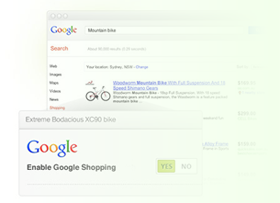
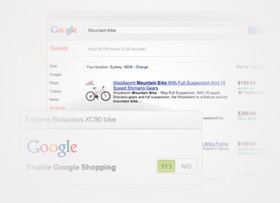
merge
added in second page and changed background for 1st page

diff --git a/index.html b/index.html
@@ -25,6 +25,7 @@
 		<div class="pages-nav__item"><a class="link link--page" href="#page-home">Home</a></div>
 		<div class="pages-nav__item"><a class="link link--page" href="#page-ingredients">Ingredients</a></div>
 		<div class="pages-nav__item"><a class="link link--page" href="#page-first">1st Item</a></div>
+		<div class="pages-nav__item"><a class="link link--page" href="#page-second">2nd Item</a></div>
 		<div class="pages-nav__item"><a class="link link--page" href="#page-software">Tools</a></div>
 		<div class="pages-nav__item"><a class="link link--page" href="#page-custom">Plans</a></div>
 		<div class="pages-nav__item"><a class="link link--page" href="#page-training">Growing</a></div>
@@ -114,6 +115,31 @@
 					</div>
 				<button class="learn-more sanim6 slideInUp">Learn More</button>
 			</div>
+			</header>
+			<!--/*No need for image here*/<img class="bg-image" src="images/2.jpg" alt="img02" />-->
+		</div>
+		<!--2nd ingredient-->
+		<div class="page" id="page-second">
+			<header class="bp-header cf">
+					<div class="par-left anims slideInLeft">
+						<span class="article-icon"><i class="fa fa-space-shuttle"></i></span>
+						<h3>Adaptive</h3>
+						<p>Everything you need to rank highly in search engines like Google, Yahoo and Bing.</p>
+					</div>
+					<span class="separator anims slideInLeft"></span>
+					<div class="par-left sanim1 slideInRight">
+						<h3>Advanced SEO tools for all</h3>
+						<p>Bigcommerce includes everything you need to rank highly in search engines like Google, Yahoo and Bing. Optimizing your site is easy — simply point, click and type.</p>
+						<img src="images/page-content/funnel.png" alt="" />
+					</div>
+					<span class="separator sanim2 slideInRight"></span>
+					<div class="par-right sanim3 slideInLeft">
+						<img src="images/page-content/arrow.png" alt="" />
+						<h3>Create a traffic stampede with Google Shopping integration.</h3>
+						<p>Our built-in integration with Google Shopping allows you to list your products with just a few clicks. Listings are automatically updated daily, driving a huge amount of targeted shoppers back to your store. It's just another way we help you reach more customers with less effort.</p>
+					</div>
+				
+				<button class="learn-more sanim5 slideInUp">Learn More</button>
 			</header>
 			<!--/*No need for image here*/<img class="bg-image" src="images/2.jpg" alt="img02" />-->
 		</div>

diff --git a/css/component.css b/css/component.css
@@ -168,7 +168,13 @@ html.js,
 }
 
 .js #page-first {
-	background: #eaf9e3;
+	background: #eeeded;
+	overflow-y: scroll;
+}
+
+.js #page-second {
+	background: #eeeded;
+	overflow-y: scroll;
 }
 
 .js .pages-stack--open .page {
@@ -649,6 +655,13 @@ html.js,
   	border-radius: 50px 50px 50px 50px;
 }
 
+.fa-space-shuttle {
+	-ms-transform: rotate(-20deg); 
+    -webkit-transform: rotate(-20deg); 
+    transform: rotate(-20deg); 
+
+}
+
 .grid__item h2 {
 	font-size: 0.8em;
 	letter-spacing: 0.2em;
@@ -719,6 +732,7 @@ html.js,
     position:relative;
     margin-top: -7em;
     margin-bottom: 2em;
+    margin-right: 15px;
 }
 
 .par-right img {
